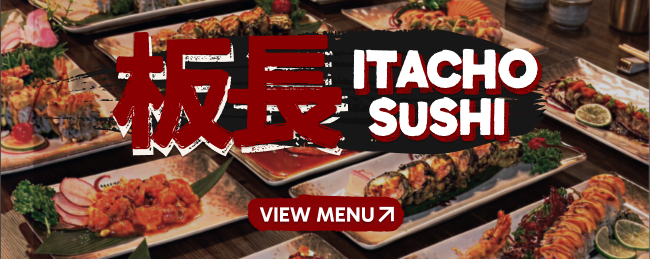
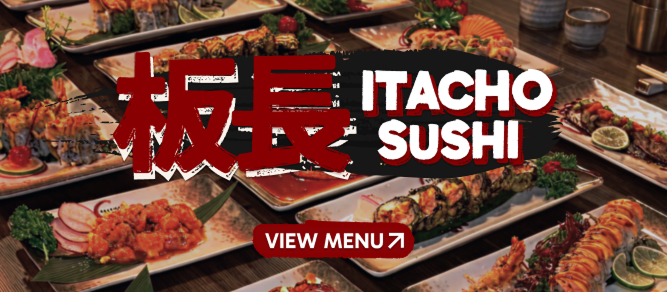
Updates to case studies

diff --git a/pages/cost-co/index.html b/pages/cost-co/index.html
@@ -186,47 +186,62 @@
         </div>
 
         <article class="cs-ins2">
-          <span class="n">01</span>
+          <div class="hd"><span class="n">Insight 1</span><span class="sep" aria-hidden="true">|</span><p class="ttl">Uncertainty makes navigation frustrating</p></div>
           <p class="big">Costco shoppers often lack the information needed to efficiently navigate the warehouse, forcing them to rely on memory, 
             previous visits, and trial-and-error.</p>
-          <p class="ttl">Uncertainty makes navigation frustrating</p>
           <div class="ev"><div><p class="cs-lab">Availability</p><p>Product availability varies between Costco locations, making it difficult for
              shoppers to know what to expect</p></div><div><p class="cs-lab">Signage</p><p>Customers struggle with unclear signage, product placement, 
               and locating specific items</p></div><div><p class="cs-lab">Visual cues</p><p>Some shoppers expressed interest in more visual information, 
                 such as pictures on signs or labels, to better distinguish products</p></div></div>
           <div class="cs-quotes">
             <p class="cs-cap">Highlights from interviews</p>
+            <div class="cs-q">
+            <p class="cs-lab g">01</p>
             <a href="../../assets/part 1.png" target="_blank" rel="noreferrer"><img src="../../assets/part 1.png" alt="Transcript highlight 1" width="959" height="284"></a>
             <div class="row2"><a href="../../assets/part 2.png" target="_blank" rel="noreferrer"><img src="../../assets/part 2.png" alt="Transcript highlight 2" width="463" height="470"></a><a href="../../assets/part 3.png" target="_blank" rel="noreferrer"><img src="../../assets/part 3.png" alt="Transcript highlight 3" width="462" height="469"></a></div>
+            </div>
           </div>
         </article>
         <article class="cs-ins2">
-          <span class="n">02</span>
+          <div class="hd"><span class="n">Insight 2</span><span class="sep" aria-hidden="true">|</span><p class="ttl">Costco shopping is driven by discovery, value, and routine</p></div>
           <p class="big">Costco's layout encourages exploration and discovery, but shoppers rely heavily on familiarity and routine to navigate an
              unpredictable environment.</p>
-          <p class="ttl">Costco shopping is driven by discovery, value, and routine</p>
           <div class="ev two"><div><p class="cs-lab">Motivation</p><p>Customers are motivated by Costco's value, convenience, novelty, and established
             shopping routines</p></div><div><p class="cs-lab">Routine</p><p>Many shoppers develop habitual paths through the warehouse and avoid
             certain areas based on past experiences</p></div></div>
           <div class="cs-quotes">
             <p class="cs-cap">Highlights from interviews</p>
+            <div class="cs-q">
+            <p class="cs-lab g">01</p>
             <a href="../../assets/value.png" target="_blank" rel="noreferrer"><img src="../../assets/value.png" alt="Value transcript highlight" width="978" height="116"></a>
+            </div>
+            <div class="cs-q">
+            <p class="cs-lab g">02</p>
             <a href="../../assets/routine2.png" target="_blank" rel="noreferrer"><img src="../../assets/routine2.png" alt="Routine transcript highlight" width="685" height="369"></a>
+            </div>
           </div>
         </article>
         <article class="cs-ins2">
-          <span class="n">03</span>
+          <div class="hd"><span class="n">Insight 3</span><span class="sep" aria-hidden="true">|</span><p class="ttl">Crowding creates congestion</p></div>
           <p class="big">Shoppers attempt to avoid crowded areas, but often contribute to congestion when searching for unfamiliar products.</p>
-          <p class="ttl">Crowding creates congestion</p>
           <div class="ev"><div><p class="cs-lab">Stress</p><p>Crowded aisles and high traffic volumes contribute to shopper stress
           </p></div><div><p class="cs-lab">Circling</p><p>Customers often circle around popular areas while searching for products, 
             unintentionally creating more congestion</p></div><div><p class="cs-lab">Overcrowding</p><p>While many shoppers enjoy visiting Costco with 
               others, overcrowding can negatively impact the experience</p></div></div>
           <div class="cs-quotes">
             <p class="cs-cap">Highlights from interviews</p>
+            <div class="cs-q">
+            <p class="cs-lab g">01</p>
             <a href="../../assets/crowded.png" target="_blank" rel="noreferrer"><img src="../../assets/crowded.png" alt="Crowded aisle transcript highlight" width="929" height="320"></a>
+            </div>
+            <div class="cs-q">
+            <p class="cs-lab g">02</p>
             <a href="../../assets/congestion.png" target="_blank" rel="noreferrer"><img src="../../assets/congestion.png" alt="Congestion transcript highlight" width="873" height="169"></a>
+            </div>
+            <div class="cs-q">
+            <p class="cs-lab g">03</p>
             <a href="../../assets/confusion.png" target="_blank" rel="noreferrer"><img src="../../assets/confusion.png" alt="Product confusion transcript highlight" width="968" height="127"></a>
+            </div>
           </div>
         </article>
         <p class="cs-take">Costco shoppers rely on routine to navigate an unpredictable environment, but limited visibility into product 
@@ -281,23 +296,28 @@
 
         <h3 class="cs-sub">How research shaped the final design</h3>
         <ul class="cs-rows inner" style="margin-top:20px">
-          <li><div><span class="n m">Research insight</span><p class="t s">Shoppers rely on memory because product locations constantly change</p></div><div><span class="n g">Design response</span><p class="t s">Location-specific warehouse maps and live navigation.</p></div></li>
-          <li><div><span class="n m">Research insight</span><p class="t s">Customers struggle to know whether products are in stock</p></div><div><span class="n g">Design response</span><p class="t s">Community-contributed inventory and availability updates.</p></div></li>
-          <li><div><span class="n m">Research insight</span><p class="t s">Limited signage creates uncertainty and inefficient searching</p></div><div><span class="n g">Design response</span><p class="t s">Real-time product locations and warehouse-specific information.</p></div></li>
+          <li><div><span class="n m">Research insight</span><p class="t s">Shoppers rely on memory because product locations constantly change</p></div><div><span class="n g">Design response</span><p class="t s">Location-specific warehouse maps and live navigation</p></div></li>
+          <li><div><span class="n m">Research insight</span><p class="t s">Customers struggle to know whether products are in stock</p></div><div><span class="n g">Design response</span><p class="t s">Community-contributed inventory and availability updates</p></div></li>
+          <li><div><span class="n m">Research insight</span><p class="t s">Limited signage creates uncertainty and inefficient searching</p></div><div><span class="n g">Design response</span><p class="t s">Real-time product locations and warehouse-specific information</p></div></li>
         </ul>
 
         <h3 class="cs-sub">Expected user outcomes</h3>
         <div class="cs-outcomes">
-          <div><span class="num">01</span><p class="o">Clearer Information &amp; Wayfinding</p><p>Warehouse-specific maps and navigation reduce unnecessary searching, helping shoppers find products more efficiently.</p></div>
-          <div><span class="num">02</span><p class="o">Greater Shopping Confidence</p><p>Real-time inventory, pricing, and community updates help shoppers make informed decisions before and during their visit.</p></div>
+          <div><span class="num">01</span><p class="o">Clearer Information &amp; Wayfinding</p><p>Warehouse-specific maps and navigation reduce unnecessary searching, helping shoppers find products more efficiently</p></div>
+          <div><span class="num">02</span><p class="o">Greater Shopping Confidence</p><p>Real-time inventory, pricing, and community updates help shoppers make informed decisions before and during their visit</p></div>
         </div>
       </section>
 
       <section id="reflection" class="cs">
         <p class="cs-label">Reflection</p>
         <h2>Seeing Before Solving</h2>
-        <p>This project broadened my perspective on what user-centered research can look like in product design. <u>Rather than starting with a predefined problem</u>, I began by observing people in their natural environment and allowing insights to emerge through contextual inquiry. This process challenged me to <span class="hi">set aside assumptions and let research guide the direction of the project.</span></p>
-        <p>Without watching users struggle, pause, or adapt in real time, I risk solving the wrong problems while overlooking the actual frustrations that shape their everyday experiences. Grounding my decisions in observed behaviors allowed me to identify meaningful opportunities that addressed genuine user needs. By observing first, I found patterns that define real interactions and ensure my final design supports how people actually navigate the world.</p>
+        <p>This project broadened my perspective on what user-centered research can look like in product design. 
+          <u>Rather than starting with a predefined problem</u>, I began by observing people in their natural environment and allowing insights to 
+          emerge through contextual inquiry. This process challenged me to <span class="hi">set aside assumptions and let research guide the direction of the project.</span></p>
+        <p>Without watching users struggle, pause, or adapt in real time, I risk solving the wrong problems while overlooking the actual frustrations 
+          that shape their everyday experiences. Grounding my decisions in observed behaviors allowed me to identify meaningful opportunities that 
+          addressed genuine user needs. By observing first, I found patterns that define real interactions and ensure my final design supports how
+          people actually navigate the world.</p>
       </section>
 
       <section id="prototype" class="cs">

diff --git a/pages/resource-bridge/index.html b/pages/resource-bridge/index.html
@@ -155,30 +155,30 @@
       </section>
 
       <section id="research-pain-points" class="cs">
-        <p class="cs-label">Research and Pain Points</p>
+        <p class="cs-label">Research and Pain Points</p> 
         <h2>Looking for Help Shouldn't Be This Hard</h2>
         <p>The team conducted extensive research through <span class="hi">desk research, competitive analysis, and direct interviews</span> with both unhoused individuals in downtown San Diego and a program manager at PATH (People Assisting The Homeless).</p>
         <ol class="cs-rows">
           <li><div><span class="n">01</span><h3 class="t">Limitations in accessing resources</h3></div><p class="dsc">Interviews revealed limited awareness of available resources,
-             heavy reliance on 2-1-1 and word of mouth, long travel distances, extended wait times, and outdated or inaccurate information online.</p></li>
+             heavy reliance on 2-1-1 and word of mouth, long travel distances, extended wait times, and outdated or inaccurate information online</p></li>
           <li><div><span class="n">02</span><h3 class="t">Barriers to support</h3></div><p class="dsc">Individuals are disadvantaged due to limited digital literacy, language barriers, 
-            lack of translations, and the burden of extensive paperwork.</p></li>
+            lack of translations, and the burden of extensive paperwork</p></li>
           <li><div><span class="n">03</span><h3 class="t">System inefficiency</h3></div><p class="dsc">Manual logging processes contribute to long wait times, unclear document requirements,
-             and misinformation. Combined with outdated information and language barriers, these issues often result in wasted trips and missed opportunities for support.</p></li>
+             and misinformation. Combined with outdated information and language barriers, these issues often result in wasted trips and missed opportunities for support</p></li>
         </ol>
       </section>
 
       <section id="design-features" class="cs">
         <p class="cs-label">Design Features</p>
         <h2>Designing the Interface</h2>
-        <p>Peer reviews surfaced <span class="hi">three core features</span> to focus on for the kiosk.</p>
+        <p>Peer reviews surfaced <span class="hi">three core features</span> to focus on for the kiosk:</p>
         <ol class="cs-feats">
           <li><span class="n">01</span><h4>User-Centered Experience</h4><p>Prioritizes quick access to essential services such as shelter, food, and healthcare. 
-            Users can scan a QR code to revisit information later, and clear, step-by-step instructions ensure usability across all literacy levels.</p></li>
+            Users can scan a QR code to revisit information later, and clear, step-by-step instructions ensure usability across all literacy levels</p></li>
           <li><span class="n">02</span><h4>Efficiency &amp; Accessibility</h4><p>Filters allow users to sort resources based on their specific needs, supported by a streamlined 
-            and intuitive interface for easy navigation. Multilingual support helps reduce language barriers and expands access for diverse communities.</p></li>
+            and intuitive interface for easy navigation. Multilingual support helps reduce language barriers and expands access for diverse communities</p></li>
           <li><span class="n">03</span><h4>Real-time Information &amp; Availability Check</h4><p>The system provides comprehensive, up-to-date listings of shelters and services,
-             along with interactive maps that display locations, distances, and public transportation routes.</p></li>
+             along with interactive maps that display locations, distances, and public transportation routes</p></li>
         </ol>
         <figure class="cs-figure">
           <img src="../../assets/Design-Features.png" alt="Design features" width="1222" height="993">
@@ -192,16 +192,16 @@
 
         <h3 class="cs-sub">Patterns identified</h3>
         <ol class="cs-rows inline" style="margin-top:20px">
-          <li><div><span class="n">01</span><p class="t s">Low filter discoverability</p></div><p class="dsc">Most participants struggled to find the filter button.</p></li>
-          <li><div><span class="n">02</span><p class="t s">Conflicting affordances</p></div><p class="dsc">Users frequently mistook static information tags for interactive buttons and instinctively clicked on general content containers rather than specific action links.</p></li>
-          <li><div><span class="n">03</span><p class="t s">Interaction friction</p></div><p class="dsc">Occasional responsiveness issues and "false affordances" led to user frustration and repeated clicking during navigation.</p></li>
-          <li><div><span class="n">04</span><p class="t s">Positive aesthetic response</p></div><p class="dsc">Despite these usability issues, participants found the kiosk interface visually appealing and the content to be potentially helpful.</p></li>
+          <li><div><span class="n">01</span><p class="t s">Low filter discoverability</p></div><p class="dsc">Most participants struggled to find the filter button</p></li>
+          <li><div><span class="n">02</span><p class="t s">Conflicting affordances</p></div><p class="dsc">Users frequently mistook static information tags for interactive buttons and instinctively clicked on general content containers rather than specific action links</p></li>
+          <li><div><span class="n">03</span><p class="t s">Interaction friction</p></div><p class="dsc">Occasional responsiveness issues and "false affordances" led to user frustration and repeated clicking during navigation</p></li>
+          <li><div><span class="n">04</span><p class="t s">Positive aesthetic response</p></div><p class="dsc">Despite these usability issues, participants found the kiosk interface visually appealing and the content to be potentially helpful</p></li>
         </ol>
 
         <h3 class="cs-sub">Design iterations</h3>
         <ol class="cs-rows inline" style="margin-top:20px">
-          <li><div><span class="n">01</span><p class="t s">Improve filter visibility</p></div><p class="dsc">Increase the visibility of the filter button to make it easier to discover.</p></li>
-          <li><div><span class="n">02</span><p class="t s">Clarify action labels</p></div><p class="dsc">Remove "Learn More," as users instinctively clicked the entire card; replace it with "Details" to better indicate interactivity and intent.</p></li>
+          <li><div><span class="n">01</span><p class="t s">Improve filter visibility</p></div><p class="dsc">Increase the visibility of the filter button to make it easier to discover</p></li>
+          <li><div><span class="n">02</span><p class="t s">Clarify action labels</p></div><p class="dsc">Remove "Learn More," as users instinctively clicked the entire card; replace it with "Details" to better indicate interactivity and intent</p></li>
         </ol>
         <figure class="cs-figure">
           <p class="cs-cap" style="margin-bottom:12px !important">Updated design features</p>
@@ -218,9 +218,15 @@
 
       <section id="lessons-learned" class="cs">
         <p class="cs-label">Lessons Learned</p>
-        <h2>Collaboration and feedback shaped the product</h2>
-        <p><span class="hi">Collaboration was the backbone</span> of developing Resource Bridge. Working closely with other designers for the first time was both a challenge and a valuable learning experience. It showed me just how essential teamwork is, not just for dividing tasks, but for pushing ideas further and being able to create something truly impactful.</p>
-        <p><span class="hi">User testing and feedback</span> played a major role throughout this project, shaping the final product in ways I hadn't initially anticipated. It truly goes to show that no matter how polished a design may seem, there is always room for iteration and growth. More importantly, it showed me that individual perspectives can only go so far, especially when designing for experiences I may never fully understand on my own. Meaningful design can only happen through direct input from the people who navigate those challenges every day.</p>
+        <h2>Good Intentions Aren't Enough</h2>
+        <p>We're constantly growing and learning as humans, yet it's so easy to overlook experiences we've never personally lived through. As designers, we often enter a project with <span class="hi">preconceived notions</span> 
+          about what people need <span class="hi">shaped by our own perspectives and biases</span>. Even with good intentions, these assumptions can limit what we choose to address and the needs we recognize.</p>
+        <p>Resource Bridge reminded me that designing for a community is not the same as understanding it. I realized how much I still had to learn about the challenges unhoused individuals
+           navigate every day and how important it was to listen rather than assume. Through direct interviews and user testing, I saw how perspectives beyond my own could challenge my 
+           initial ideas and shape the direction of the design in ways I hadn't anticipated.</p>
+        <p>This experience taught me that becoming a better designer also means <span class="hi">recognizing the limits of my own perspective</span>. No matter how polished a design may seem, there is always room to
+           question and improve. Good intentions alone aren't enough; <u>meaningful design comes from listening to the people who experience these challenges firsthand and allowing their 
+           perspectives and experiences to shape the solutions we create.</u></p>
       </section>
 
       <section id="prototype" class="cs">

diff --git a/pages/steam-navigation/index.html b/pages/steam-navigation/index.html
@@ -156,14 +156,14 @@
         <div class="cs-big3 sm">
           <div><p class="k"></p><p class="v">Desktop-first structure</p><p class="d">The information architecture doesn't match what people expect on mobile</p></div>
           <div><p class="k"></p><p class="v">Vague labels</p><p class="d">High-value features sit under names like "Community"</p></div>
-          <div><p class="k"></p><p class="v">Three jobs in one app</p><p class="d">A storefront, a social platform, and a news hub compete for space</p></div>
+          <div><p class="k"></p><p class="v">Four jobs in one app</p><p class="d">A storefront, a social platform, a login method, and a news hub compete for space on one app</p></div>
         </div>
       </section>
 
       <section id="research-pain-points" class="cs">
         <p class="cs-label">Research and Pain Points</p>
         <h2>Finding the Bugs</h2>
-        <p>Usability testing with 4 participants revealed recurring navigation issues that prevented users from moving through the app confidently. Participants frequently relied on guesswork rather than in-app affordances. </p>
+        <p>Usability testing with <span class="hi">4 participants</span> revealed recurring navigation issues that prevented users from moving through the app confidently. Participants frequently relied on guesswork rather than in-app affordances. </p>
         <ol class="cs-rows">
           <li><div><span class="n">01</span><h3 class="t">Low discoverability</h3></div><div class="dsc"><p>3 out of 4 participants searched the hamburger menu for Friends, while 2 out of 4 expected Family Management to be located there.</p><p>Users' mental models didn't match Steam's information architecture, which caused repeated navigation errors and interrupted task flow.</p></div></li>
           <li><div><span class="n">02</span><h3 class="t">Poor information breadcrumbs</h3></div><div class="dsc"><p>2 out of 4 participants followed the Community tab expecting it to lead directly to Friends or Family Management.</p><p>Category labels failed to communicate where they led, creating misleading paths that increased friction and task times.</p></div></li>
@@ -199,7 +199,7 @@
           <div class="cs-story" style="position:static">
             <div class="cs-strat-t"><p class="cs-num" style="margin:0 !important;font-size:22px !important;line-height:1.3 !important">A</p><h3>
               The conventional approach</h3></div>
-            <p class="cs-changed">A standard bottom navigation bar prioritizing familiarity and one-tap access to key features.</p>
+            <p class="cs-changed">A standard bottom navigation bar prioritizing familiarity and one-tap access to key features</p>
             <div style="margin-top:20px"><p class="cs-lab g">What it tackles</p><p class="cs-heard">Low discoverability by placing core actions 
               where mobile users already expect them</p></div>
           </div>
@@ -213,7 +213,7 @@
         <article class="cs-finding lg tight">
           <div class="cs-story" style="position:static">
             <div class="cs-strat-t"><p class="cs-num" style="margin:0 !important;font-size:22px !important;line-height:1.3 !important">B</p><h3>The all-in-one hub</h3></div>
-            <p class="cs-changed">A centralized hub designed to reduce information scattering and consolidate features into a single entry point.</p>
+            <p class="cs-changed">A centralized hub designed to reduce information scattering and consolidate features into a single entry point</p>
             <div style="margin-top:20px"><p class="cs-lab g">What it tackles</p><p class="cs-heard">Split menus and high cognitive load by grouping related 
               tools in one structured place</p></div>
           </div>
@@ -234,9 +234,9 @@
 
         <div class="cs-solution" style="grid-template-columns:minmax(0,1fr) minmax(0,1.1fr); align-items:start; gap:56px; margin-top:48px">
           <ol class="sol-feats">
-            <li><span class="n">01</span><div><h4>Prioritize core actions</h4><p>Moved Library, Friends, and Store into persistent bottom navigation to reduce friction and match familiar mobile patterns.</p></div></li>
-            <li><span class="n">02</span><div><h4>Centralize complex features</h4><p>Grouped account-based tools like Steam Families and Settings into a profile hub for clearer organization.</p></div></li>
-            <li><span class="n">03</span><div><h4>Improve feature discoverability</h4><p>Replaced vague labels like "Community" with specific categories like "Forums" to improve discoverability.</p></div></li>
+            <li><span class="n">01</span><div><h4>Prioritize core actions</h4><p>Moved Library, Friends, and Store into persistent bottom navigation to reduce friction and match familiar mobile patterns</p></div></li>
+            <li><span class="n">02</span><div><h4>Centralize complex features</h4><p>Grouped account-based tools like Steam Families and Settings into a profile hub for clearer organization</p></div></li>
+            <li><span class="n">03</span><div><h4>Improve feature discoverability</h4><p>Replaced vague labels like "Community" with specific categories like "Forums" to improve discoverability</p></div></li>
           </ol>
           <div class="cs-pair">
             <figure class="cs-shot"><img src="../../assets/steam-redesign2.png" alt="Final redesign screen 1" width="756" height="1521"></figure>
@@ -247,7 +247,7 @@
 
       <section id="lessons-learned" class="cs">
         <p class="cs-label">Lessons Learned</p>
-        <h2>Every Click Count</h2>
+        <h2>Every Click Counts</h2>
         <p>This project really put into perspective how important it is to <span class="hi">distinguish between mobile and desktop experiences</span>; you can't simply move desktop features into a mobile layout and expect a smooth user journey. Working with my teammates showed me that even the smallest details, like renaming an ambiguous "Community" tag to "Forums," can help users more than I realized.</p>
         <p>I saw firsthand that when these details are overlooked, it can easily snowball into a "guessing game" for tasks that should be simple. It taught me that even if an issue may seem minuscule at first glance, it's still important to account for it, because those "small" issues are the exact moments where people decide to give up.</p>
       </section>

diff --git a/styles/case-study.css b/styles/case-study.css
@@ -193,6 +193,9 @@
 .cs-quotes .cs-cap { margin: 0 0 -2px !important; }
 .cs-quotes img { display: block; max-width: 100%; height: auto; border-radius: 12px; border: 1px solid rgba(28,28,28,.08); background: #fff; }
 .cs-quotes .row2 { display: grid; grid-template-columns: repeat(2, minmax(0, 463px)); gap: 14px; max-width: 100%; }
+/* one interview: its label plus its transcripts. Wider gap between interviews than within one */
+.cs-quotes .cs-q { display: flex; flex-direction: column; gap: 8px; align-items: flex-start; width: 100%; }
+.cs-quotes .cs-q + .cs-q { margin-top: 26px; }
 .cs-figure { margin: 28px 0 0; }
 .cs-figure img { display: block; width: 100%; height: auto; border-radius: 16px; border: 1px solid rgba(28,28,28,.08); background: #fff; }
 @media (max-width: 640px) { .cs-quotes .row2 { grid-template-columns: 1fr; } .cs-main h3.cs-sub { margin-top: 56px; font-size: 21px; } .cs-main .cs-take { font-size: 19px; margin-top: 40px; } }
@@ -205,11 +208,14 @@
 .cs-rows.inline .n { flex: none; margin-bottom: 0; }
 
 /* research insights: the insight leads, evidence in short columns, transcripts below */
-.cs-ins2 { padding: 48px 0 8px; border-top: 1px solid rgba(28,28,28,.1); }
+.cs-ins2 { padding: 48px 0; border-top: 1px solid rgba(28,28,28,.2); }
 .cs-ins2:last-of-type { padding-bottom: 8px; }
-.cs-ins2 .n { display: block; margin: 0 0 10px; font-size: 14px; font-weight: 500; letter-spacing: .08em; color: var(--color-green-accent); font-variant-numeric: tabular-nums; }
-.cs-ins2 .big { margin: 0 0 14px; font-family: var(--cs-title-font); font-size: 28px; font-weight: 400; line-height: 1.3; letter-spacing: -.015em; color: var(--color-dark-charcoal); text-wrap: pretty; }
-.cs-ins2 .ttl { margin: 0 0 32px; font-size: 12px; font-weight: 500; letter-spacing: .08em; text-transform: uppercase; color: var(--color-light-grey); }
+.cs-ins2 .hd { display: flex; flex-wrap: wrap; align-items: baseline; gap: 4px 12px; margin: 0 0 12px; }
+.cs-ins2 .hd .sep { color: var(--color-light-grey); font-weight: 300; }
+@media (max-width: 640px) { .cs-ins2 .hd { flex-direction: column; } .cs-ins2 .hd .sep { display: none; } } /* stacks on phones, without the divider */
+.cs-ins2 .n { display: block; margin: 0; font-size: 19px; font-weight: 500; letter-spacing: .01em; color: var(--color-muted-grey); font-variant-numeric: tabular-nums; }
+.cs-ins2 .big { margin: 0 0 32px; font-family: var(--cs-title-font); font-size: 28px; font-weight: 400; line-height: 1.3; letter-spacing: -.015em; color: var(--color-dark-charcoal); text-wrap: pretty; }
+.cs-ins2 .ttl { margin: 0; font-size: 12px; font-weight: 500; letter-spacing: .08em; text-transform: uppercase; color: var(--color-light-grey); }
 .cs-ins2 .ev { display: grid; grid-template-columns: repeat(3, minmax(0,1fr)); gap: 28px; margin-bottom: 8px; }
 .cs-ins2 .ev.two { grid-template-columns: repeat(2, minmax(0,1fr)); }
 .cs-ins2 .ev p { margin: 0; font-size: 15px; line-height: 1.55; color: #5f5b5c; }
@@ -268,7 +274,6 @@
 .cs-solution .sol-feats { border-top: 0; }
 .cs-solution .sol-feats li:first-child { padding-top: 0; }
 .cs-solution .sol-feats li:last-child { border-bottom: 0; padding-bottom: 0; }
-.cs-ins2:first-of-type { border-top: 0; padding-top: 0; }
 
 /* three numbered features in columns (Resource Bridge) */
 .cs-feats { margin: 36px 0 0; padding: 0; list-style: none; display: grid; grid-template-columns: repeat(3, minmax(0,1fr)); gap: 32px; }
@@ -278,7 +283,7 @@
 .cs-ba { display: grid; grid-template-columns: repeat(2, minmax(0,1fr)); gap: 24px; margin-top: 24px; align-items: start; }
 .cs-ba .cs-cap { margin: 0 0 10px !important; }
 .cs-ba img { display: block; width: 100%; height: auto; border-radius: 12px; border: 1px solid rgba(28,28,28,.08); background: #fff; }
-.cs-xgrid img { aspect-ratio: 3 / 4; object-fit: cover; }
+.cs-xgrid img { height: auto; aspect-ratio: 3 / 4; object-fit: cover; } /* height:auto overrides the img height attribute, which would otherwise stretch the box and crop the sides */
 @media (max-width: 900px) { .cs-feats { grid-template-columns: 1fr; gap: 28px; } }
 @media (max-width: 640px) { .cs-ba { grid-template-columns: 1fr; } }
 
@@ -311,6 +316,11 @@
 
 /* laptop screenshots (Tastea): show whole image, no crop */
 .cs-xgrid.laptops img { height: auto; aspect-ratio: 16 / 11; object-fit: cover; object-position: center 45%; border-radius: 0; }
+
+/* wide banners (Itacho explorations): keep each image's own shape, no crop */
+.cs-xgrid.full { align-items: start; }
+.cs-xgrid.full img { height: auto; aspect-ratio: auto; object-fit: contain; }
+.cs-xgrid.full.one { grid-template-columns: minmax(0,420px); justify-content: center; } /* stays smaller than .cs-sel (520px) */
 
 /* QUESST: numbered app parts, each with its screen */
 .cs-core { margin: 32px 0 0; padding: 0; list-style: none; display: grid; grid-template-columns: repeat(4, minmax(0,1fr)); gap: 36px 20px; }

diff --git a/pages/itacho/index.html b/pages/itacho/index.html
@@ -137,7 +137,7 @@
         <p>The goal was not only a new interface. It was to restructure how information is presented, while preserving Itacho Sushi's identity.</p>
         <dl class="cs-facts">
           <div><dt>Client</dt><dd>Itacho Sushi</dd></div>
-          <div><dt>Scope</dt><dd>Desktop and mobile website</dd></div>
+          <div><dt>Scope</dt><dd>Desktop and mobile website (shipped)</dd></div>
           <div><dt>Focus</dt><dd>Information architecture, menu and pricing clarity</dd></div>
           <div><dt>Constraint</dt><dd>Keep the restaurant's existing brand identity</dd></div>
         </dl>
@@ -271,7 +271,7 @@
 
         <div class="cs-group">
           <div class="cs-xhead"><h3>Hero &amp; Visual Identity</h3><p>Exploring photography, calligraphy, and bold brand treatments.</p></div>
-          <div class="cs-xgrid">
+          <div class="cs-xgrid full">
             <img src="../../assets/itacho1.png" alt="Dark wood ambient hero exploration">
             <img src="../../assets/itacho2.0.png" alt="Red calligraphy hero exploration">
             <img src="../../assets/itacho3.png" alt="White brushwork hero exploration">
@@ -282,7 +282,7 @@
 
         <div class="cs-group">
           <div class="cs-xhead"><h3>Menu Header &amp; Tiers</h3><p>Testing hierarchy for tier selection, category navigation, and pricing.</p></div>
-          <div class="cs-xgrid three">
+          <div class="cs-xgrid full one">
             <img src="../../assets/itachomenu1.png" alt="Menu header exploration with red accents">
             <img src="../../assets/itachomenu2.png" alt="Menu header exploration with gold line accent">
             <img src="../../assets/itachomenu3.png" alt="Centered menu header exploration">

diff --git a/pages/pikminbloom/index.html b/pages/pikminbloom/index.html
@@ -208,7 +208,7 @@
           <div class="cs-story">
             <p class="cs-num">02</p>
             <h3>Dexterity-Friendly Interactions</h3>
-            <div><p class="cs-lab">Before</p><p class="cs-heard">Feeding Pikmin was one-by-one, and a drag-to-select shortcut went unnoticed in testing</p></div>
+            <div><p class="cs-lab">Before</p><p class="cs-heard">Feeding Pikmin was one-by-one and a drag-to-select shortcut went unnoticed in testing</p></div>
             <div><p class="cs-lab g">After</p><p class="cs-changed">Single and double <span class="hi">taps replace dragging and swiping</span>, with a bulk feed flow that 
               lowers physical and cognitive effort</p></div>
           </div>

diff --git a/index.html b/index.html
@@ -112,7 +112,7 @@
       </article>
 
       <article class="work-card" data-cat="featured experience">
-        <a href="pages\quesst\index.html" class="card-inner-link">
+        <a href="pages/quesst/" class="card-inner-link">
           <div class="work-media-container">
             <img src="assets/nasa-logo.svg" alt="NASA logo" class="work-asset work-asset--inset">
           </div>
